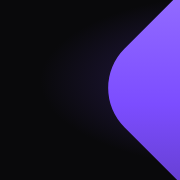
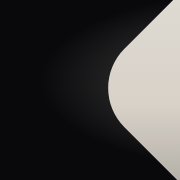
Actualizare site EDITSEL 2026-10-20 21:33

Changed region(s): [[0.5833, 0.0, 1.0, 1.0]]

diff --git a/app.js b/app.js
@@ -578,7 +578,7 @@
     const cta = logged
       ? '<a class="btn primary" href="admin.html">＋ Adaugă seriale</a><a class="btn" id="home-my" href="./">Profilul meu</a>'
       : '<a class="btn primary" href="admin.html#cont-nou">Creează cont gratuit</a><a class="btn" href="admin.html">Am deja cont</a>';
-    return `<section class="home-hero">
+    return `<section class="home-hero"><div class="home-backdrop" id="home-backdrop"></div>
         <div class="container home-hero-grid">
           <div class="home-copy">
             <span class="home-kicker">${WL.logoSvg(null, { size: 22, id: 'hk' })} EDITSEL</span>
@@ -594,6 +594,15 @@
       </section>
 
       <div class="container page home-page">
+        <section class="section" id="trend-tv-wrap">
+          <div class="section-head"><h2>Seriale populare acum</h2></div>
+          <div class="row-scroll trend-row" id="trend-tv">${Array.from({ length: 8 }, () => '<div class="poster"><div class="poster-img skeleton"></div></div>').join('')}</div>
+        </section>
+        <section class="section" id="trend-movie-wrap">
+          <div class="section-head"><h2>Filme populare acum</h2></div>
+          <div class="row-scroll trend-row" id="trend-movie">${Array.from({ length: 8 }, () => '<div class="poster"><div class="poster-img skeleton"></div></div>').join('')}</div>
+        </section>
+
         <section class="home-features">
           ${FEATURES.map(([ic, t, d]) => `<div class="feature"><span class="feature-ic">${ic}</span><h3>${t}</h3><p>${d}</p></div>`).join('')}
         </section>
@@ -620,12 +629,40 @@
   async function fillHome() {
     if (backend.user) backend.myUsername().then((u) => { const a = document.getElementById('home-my'); if (a && u) a.href = BASE + u; }).catch(() => {});
     let data = { members: [], active: [] };
-    try { data = await backend.loadCommunity(8); } catch (e) { console.error(e); }
+    let trending = { tv: [], movie: [] };
+    const shuffle = (arr) => arr.map((x) => [Math.random(), x]).sort((a, b) => a[0] - b[0]).map((x) => x[1]);
+    await Promise.all([
+      backend.loadCommunity(8).then((d) => { data = d; }).catch((e) => console.error(e)),
+      backend.loadHome().then((h) => { trending = h; }).catch((e) => console.error(e)),
+    ]);
     if (!document.getElementById('members')) return;
 
+    // randurile cu seriale si filme populare, in ordine aleatorie la fiecare vizita
+    for (const type of ['tv', 'movie']) {
+      const row = document.getElementById('trend-' + type);
+      const list = shuffle(trending[type] || []).slice(0, 18);
+      if (!row) continue;
+      if (!list.length) { document.getElementById(`trend-${type}-wrap`).remove(); continue; }
+      row.innerHTML = list.map((t) => `<a class="poster trend-card" href="https://www.themoviedb.org/${t.type}/${t.id}" target="_blank" rel="noopener" title="${esc(t.title)}">
+          <div class="poster-img"><img src="${esc(t.poster)}" alt="${esc(t.title)}" loading="lazy">${t.rating ? `<span class="tmdb-score">★ ${t.rating.toFixed(1)}</span>` : ''}</div>
+          <div class="trend-title">${esc(t.title)}</div><div class="trend-year">${esc(t.year || '')}</div>
+        </a>`).join('');
+    }
+    const allTrending = [...(trending.tv || []), ...(trending.movie || [])];
+    const backdrops = allTrending.filter((t) => t.backdrop);
+    const bd = document.getElementById('home-backdrop');
+    if (bd && backdrops.length) {
+      const pickBd = backdrops[Math.floor(Math.random() * backdrops.length)];
+      const img = new Image();
+      img.onload = () => { bd.style.backgroundImage = `url('${pickBd.backdrop}')`; bd.classList.add('on'); };
+      img.src = pickBd.backdrop;
+    }
+
     // peretele de postere: din bibliotecile membrilor activi
-    const posters = [...new Set(data.active.flatMap((d) => d.titles.map((t) => t.poster).filter((p) => p && /^https?:/.test(p))))]
-      .sort(() => Math.random() - 0.5).slice(0, 12);
+    const posters = shuffle([...new Set([
+      ...allTrending.map((t) => t.poster),
+      ...data.active.flatMap((d) => d.titles.map((t) => t.poster)),
+    ].filter((p) => p && /^https?:/.test(p)))]).slice(0, 12);
     const wall = document.getElementById('poster-wall');
     if (wall && posters.length) {
       wall.innerHTML = Array.from({ length: 12 }, (_, i) => {

diff --git a/style.css b/style.css
@@ -8,15 +8,15 @@
   --text: #eef0f4;
   --muted: #969ca7;
   --faint: #5c626c;
-  --accent: #7c4dff;
-  --accent-hover: #9068ff;
-  --accent-deep: #442a8c;
-  --accent-ink: #ffffff;
-  --accent-soft: #251d3f;
-  --accent-text: #9d7aff;
+  --accent: #d8d2c9;
+  --accent-hover: #ded9d1;
+  --accent-deep: #77746f;
+  --accent-ink: #111014;
+  --accent-soft: #363535;
+  --accent-text: #d8d2c9;
   --heart: #ff5466;
-  --star: #9d7aff;
-  --star-accent: #9d7aff;
+  --star: #d8d2c9;
+  --star-accent: #d8d2c9;
   --radius: 12px;
   --max: 1240px;
   --head: 'Space Grotesk', 'Inter', system-ui, sans-serif;
@@ -387,7 +387,7 @@ body.loading #app::after {
 .home-kicker { display: inline-flex; align-items: center; gap: 8px; padding: 6px 14px 6px 8px; border-radius: 999px; font-family: var(--head); font-weight: 700; font-size: 13px; letter-spacing: .2em;
   background: color-mix(in srgb, var(--accent) 14%, var(--surface)); border: 1px solid color-mix(in srgb, var(--accent) 35%, var(--border)); color: var(--accent-text); }
 .home-copy h1 { font-size: clamp(38px, 5vw, 66px); font-weight: 700; line-height: 1.02; letter-spacing: -.035em; margin: 22px 0 0; }
-.home-copy h1 span { background: linear-gradient(90deg, var(--accent-text), var(--accent-hover) 60%, #ff7ab6); -webkit-background-clip: text; background-clip: text; color: transparent; }
+.home-copy h1 span { background: linear-gradient(90deg, #ffffff, var(--accent) 55%, color-mix(in srgb, var(--accent) 70%, #8a7f70)); -webkit-background-clip: text; background-clip: text; color: transparent; }
 .home-copy p { color: #c4c8cf; font-size: 18px; max-width: 520px; margin: 22px 0 0; }
 .home-cta { display: flex; gap: 10px; margin-top: 30px; flex-wrap: wrap; }
 .home-cta .btn { height: 48px; padding: 0 24px; font-size: 15px; }
@@ -451,3 +451,16 @@ body.loading #app::after {
   .home-features { grid-template-columns: 1fr; gap: 10px; }
   .feature { padding: 18px; }
 }
+
+/* ---------- populare pe prima pagina ---------- */
+.home-backdrop { position: absolute; inset: 0; background: center 30% / cover no-repeat; opacity: 0; transition: opacity 1.2s ease; pointer-events: none; }
+.home-backdrop.on { opacity: .28; }
+.home-backdrop::after { content: ''; position: absolute; inset: 0; background: linear-gradient(to bottom, rgba(9,9,11,.4), var(--bg) 92%), linear-gradient(to right, var(--bg) 5%, transparent 45%, rgba(9,9,11,.6)); }
+.home-hero > .container { z-index: 1; }
+.trend-row { grid-auto-columns: 150px; }
+.trend-card .poster-img { position: relative; }
+.tmdb-score { position: absolute; top: 8px; right: 8px; padding: 2px 7px; border-radius: 999px; font-size: 11px; font-weight: 600; background: rgba(9,9,11,.78); color: var(--accent-text); backdrop-filter: blur(4px); }
+.trend-title { margin-top: 8px; font-size: 13px; font-weight: 600; white-space: nowrap; overflow: hidden; text-overflow: ellipsis; }
+.trend-year { font-size: 12px; color: var(--muted); }
+.poster-img.skeleton { background: linear-gradient(90deg, var(--surface) 0%, var(--surface-2) 50%, var(--surface) 100%) 0 0 / 200% 100%; animation: shimmer 1.2s linear infinite; }
+@media (max-width: 640px) { .trend-row { grid-auto-columns: 118px; } }

diff --git a/backend.js b/backend.js
@@ -26,7 +26,7 @@ const clean = (o) => JSON.parse(JSON.stringify(o)); // Firestore nu accepta unde
 
 const PROFILE_DEFAULTS = {
   name: '', username: '', bio: '', avatar: '', banner: '', bannerFrom: '', statsBanner: '', statsBannerFrom: '',
-  accent: '#7c4dff', showStats: true, private: false, region: 'RO', favorites: [], following: [], joined: '',
+  accent: '#d8d2c9', showStats: true, private: false, region: 'RO', favorites: [], following: [], joined: '',
 };
 
 function cleanTitle(input, existing = {}) {
@@ -145,6 +145,37 @@ export async function createBackend(config) {
     const s = await getDocs(query(collection(fs, 'users'), where('private', '==', false), limit(200)));
     return s.docs.map((d) => ({ uid: d.id, ...d.data() }))
       .sort((a, b) => String(b.updatedAt || '').localeCompare(String(a.updatedAt || '')));
+  }
+
+  // serialele si filmele populare (site/home): citite de oricine, reimprospatate de administrator la 12 ore
+  async function loadHome() {
+    let home = null;
+    try { const s = await getDoc(doc(fs, 'site', 'home')); home = s.exists() ? s.data() : null; } catch { /* regula lipsa sau offline */ }
+    const stale = !home || !home.updatedAt || Date.now() - Date.parse(home.updatedAt) > 12 * 3600 * 1000;
+    if (stale && user) {
+      const cfg = await loadSiteConfig();
+      if (cfg && cfg.tmdbKey && cfg.adminUid === user.uid) {
+        try { home = await refreshHome(); } catch (e) { console.warn('Nu am putut actualiza popularele:', e.message); }
+      }
+    }
+    return home || { tv: [], movie: [] };
+  }
+
+  async function refreshHome() {
+    const l = await lang();
+    const pick = (r, type) => ({
+      id: r.id, type, title: r.name || r.title || '', year: (r.first_air_date || r.release_date || '').slice(0, 4),
+      poster: r.poster_path ? IMG + 'w342' + r.poster_path : '', backdrop: r.backdrop_path ? IMG + 'w1280' + r.backdrop_path : '',
+      rating: Math.round((r.vote_average || 0) * 10) / 10,
+    });
+    const get = async (type) => {
+      const pages = await Promise.all([1, 2].map((page) => tmdb(`/trending/${type}/week`, { language: l, page })));
+      return pages.flatMap((p) => p.results || []).filter((r) => r.poster_path).slice(0, 40).map((r) => pick(r, type));
+    };
+    const [tv, movie] = await Promise.all([get('tv'), get('movie')]);
+    const home = { updatedAt: new Date().toISOString(), tv, movie };
+    await setDoc(doc(fs, 'site', 'home'), home);
+    return home;
   }
 
   // pagina principala: membrii si datele celor mai activi (pentru postere si activitate)
@@ -540,7 +571,7 @@ export async function createBackend(config) {
     onAuth: (fn) => { authListeners.add(fn); return () => authListeners.delete(fn); },
     api, register, login, logout: () => signOut(auth),
     resetPassword: (email) => sendPasswordResetEmail(auth, email).catch((e) => { throw err(authMessage(e)); }),
-    loadUser, loadUserByUid, listMembers, loadCommunity, uidForUsername,
+    loadUser, loadUserByUid, listMembers, loadCommunity, loadHome, uidForUsername,
     myUsername: async () => (user ? (await me()).profile.username : null),
     exportMine: async () => clean(await me()),
   };

diff --git a/admin.js b/admin.js
@@ -961,7 +961,7 @@
     el.innerHTML = `<p class="muted" style="margin-top:0">Culoarea se aplică pe tot site-ul: butoane, stele, tab-uri, grafice.</p>
       <div class="swatches">${WL.COLORS.map(([name, hex]) => `<button class="swatch-row ${hex === current ? 'on' : ''}" data-hex="${hex}"><span class="swatch" style="background:${hex}"></span>${name}${hex === current ? '<span class="arrow">✓</span>' : ''}</button>`).join('')}</div>
       <div class="field" style="margin-top:18px;max-width:320px"><label>Sau orice culoare</label>
-        <div style="display:flex;gap:10px;align-items:center"><input type="color" id="c-custom" value="${esc(current || '#7c4dff')}" style="width:54px;height:40px;border:0;background:none;padding:0;cursor:pointer"><button class="btn" id="c-save">Folosește culoarea</button></div>
+        <div style="display:flex;gap:10px;align-items:center"><input type="color" id="c-custom" value="${esc(current || '#d8d2c9')}" style="width:54px;height:40px;border:0;background:none;padding:0;cursor:pointer"><button class="btn" id="c-save">Folosește culoarea</button></div>
       </div>`;
     const apply = async (hex) => {
       WL.applyAccent(hex);

diff --git a/admin.html b/admin.html
@@ -9,8 +9,8 @@
   <link rel="preconnect" href="https://fonts.googleapis.com">
   <link rel="preconnect" href="https://fonts.gstatic.com" crossorigin>
   <link href="https://fonts.googleapis.com/css2?family=Inter:wght@400;500;600;700&family=Space+Grotesk:wght@500;600;700&display=swap" rel="stylesheet">
-  <link rel="stylesheet" href="style.css?v=mvh784kk">
-  <link rel="stylesheet" href="admin.css?v=mvh784kk">
+  <link rel="stylesheet" href="style.css?v=mvh7agpl">
+  <link rel="stylesheet" href="admin.css?v=mvh7agpl">
 </head>
 <body class="admin">
   <header class="site-header">
@@ -23,9 +23,9 @@
     </div>
   </header>
   <main class="container" id="root"></main>
-  <script src="common.js?v=mvh784kk"></script>
-  <script src="firebase-config.js?v=mvh784kk"></script>
-  <script type="module" src="backend.js?v=mvh784kk"></script>
-  <script src="admin.js?v=mvh784kk"></script>
+  <script src="common.js?v=mvh7agpl"></script>
+  <script src="firebase-config.js?v=mvh7agpl"></script>
+  <script type="module" src="backend.js?v=mvh7agpl"></script>
+  <script src="admin.js?v=mvh7agpl"></script>
 </body>
 </html>

diff --git a/404.html b/404.html
@@ -18,8 +18,8 @@
   <link rel="preconnect" href="https://fonts.googleapis.com">
   <link rel="preconnect" href="https://fonts.gstatic.com" crossorigin>
   <link href="https://fonts.googleapis.com/css2?family=Inter:wght@400;500;600;700&family=Space+Grotesk:wght@500;600;700&display=swap" rel="stylesheet">
-  <link rel="stylesheet" href="style.css?v=mvh784kk">
-  <script src="common.js?v=mvh784kk"></script>
+  <link rel="stylesheet" href="style.css?v=mvh7agpl">
+  <script src="common.js?v=mvh7agpl"></script>
   <script>
     // culoarea profilului din vizita trecuta, aplicata inainte de afisare (fara clipire)
     // pe un profil: culoarea lui din vizita trecuta; pe pagina principala ramane culoarea site-ului
@@ -63,8 +63,8 @@
     </div>
   </div>
 
-  <script src="firebase-config.js?v=mvh784kk"></script>
-  <script type="module" src="backend.js?v=mvh784kk"></script>
-  <script src="app.js?v=mvh784kk"></script>
+  <script src="firebase-config.js?v=mvh7agpl"></script>
+  <script type="module" src="backend.js?v=mvh7agpl"></script>
+  <script src="app.js?v=mvh7agpl"></script>
 </body>
 </html>

diff --git a/index.html b/index.html
@@ -18,8 +18,8 @@
   <link rel="preconnect" href="https://fonts.googleapis.com">
   <link rel="preconnect" href="https://fonts.gstatic.com" crossorigin>
   <link href="https://fonts.googleapis.com/css2?family=Inter:wght@400;500;600;700&family=Space+Grotesk:wght@500;600;700&display=swap" rel="stylesheet">
-  <link rel="stylesheet" href="style.css?v=mvh784kk">
-  <script src="common.js?v=mvh784kk"></script>
+  <link rel="stylesheet" href="style.css?v=mvh7agpl">
+  <script src="common.js?v=mvh7agpl"></script>
   <script>
     // culoarea profilului din vizita trecuta, aplicata inainte de afisare (fara clipire)
     // pe un profil: culoarea lui din vizita trecuta; pe pagina principala ramane culoarea site-ului
@@ -63,8 +63,8 @@
     </div>
   </div>
 
-  <script src="firebase-config.js?v=mvh784kk"></script>
-  <script type="module" src="backend.js?v=mvh784kk"></script>
-  <script src="app.js?v=mvh784kk"></script>
+  <script src="firebase-config.js?v=mvh7agpl"></script>
+  <script type="module" src="backend.js?v=mvh7agpl"></script>
+  <script src="app.js?v=mvh7agpl"></script>
 </body>
 </html>

diff --git a/common.js b/common.js
@@ -110,6 +110,7 @@
 
   // Paleta de culori pentru profil (ca la Serializd → Color) + orice culoare custom.
   const COLORS = [
+    ['Alb crem', '#d8d2c9'],
     ['Mov', '#7c4dff'],
     ['Albastru regal', '#5b7cfa'],
     ['Auriu', '#f4b942'],
@@ -122,7 +123,6 @@
     ['Turcoaz', '#1fb5a5'],
     ['Verde neon', '#8ace00'],
     ['Verde vânător', '#3f7a4a'],
-    ['Alb crem', '#d8d2c9'],
   ];
 
   const hexToRgb = (h) => [1, 3, 5].map((i) => parseInt(h.slice(i, i + 2), 16));
